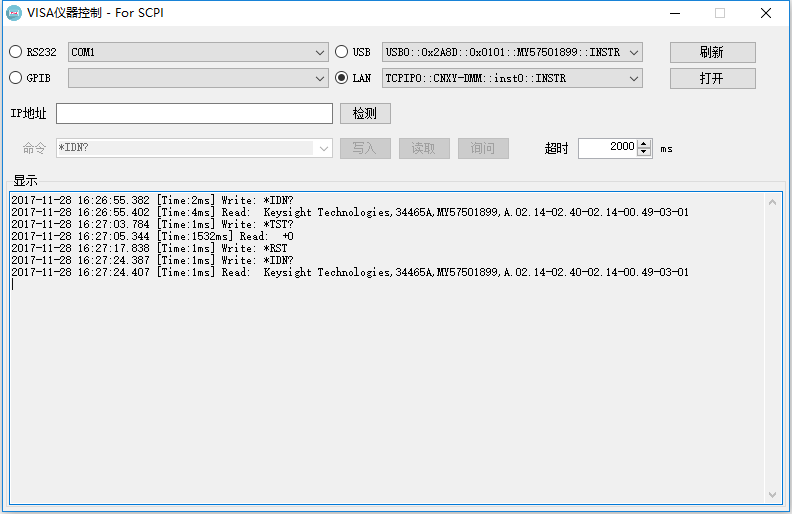
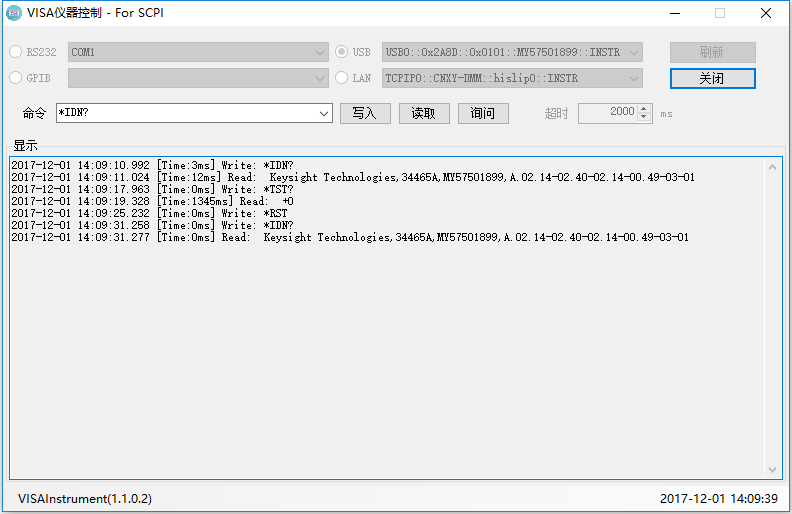
版本号更新至1.1.0.2/更新显示图片

diff --git a/VISAInstrument/Properties/AssemblyInfo.cs b/VISAInstrument/Properties/AssemblyInfo.cs
@@ -32,5 +32,5 @@ using System.Runtime.InteropServices;
 // 可以指定所有值，也可以使用以下所示的 "*" 预置版本号和修订号
 // 方法是按如下所示使用“*”: :
 // [assembly: AssemblyVersion("1.0.*")]
-[assembly: AssemblyVersion("1.1.0.1")]
-[assembly: AssemblyFileVersion("1.1.0.1")]
+[assembly: AssemblyVersion("1.1.0.2")]
+[assembly: AssemblyFileVersion("1.1.0.2")]
